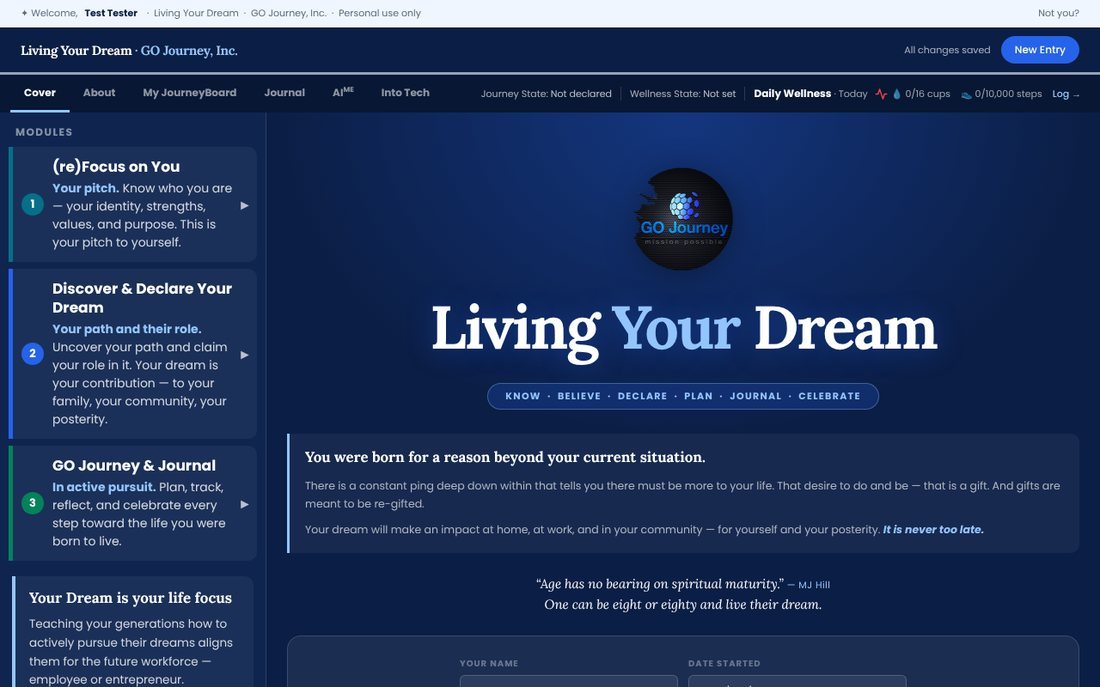
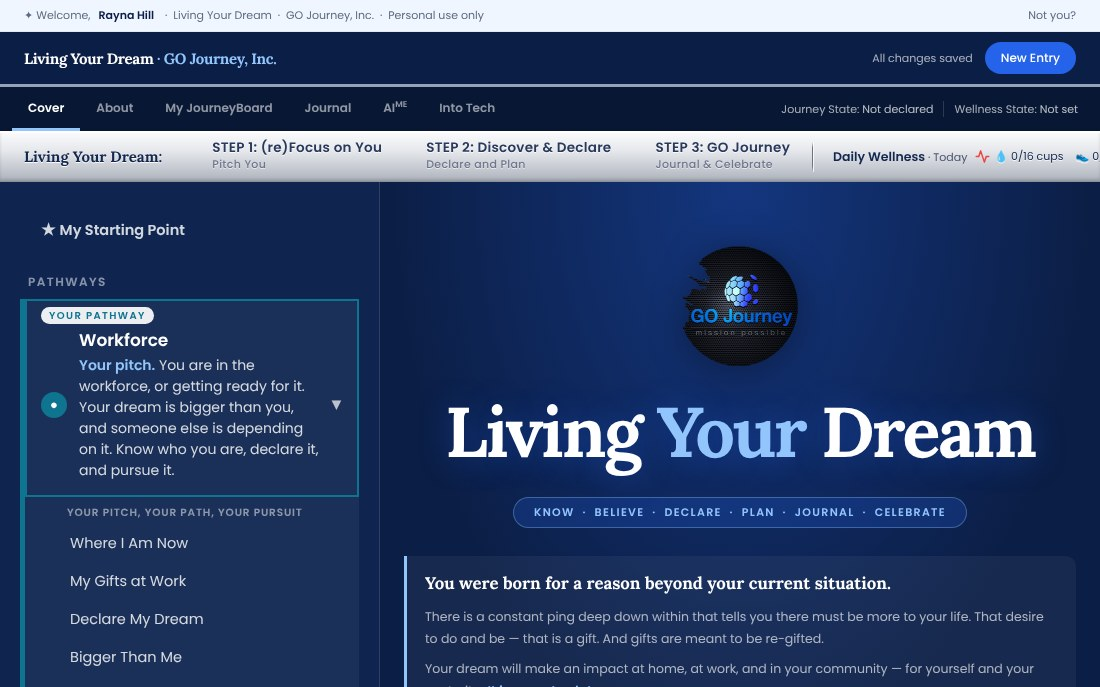
Add files via upload

diff --git a/living-your-dream.html b/living-your-dream.html
@@ -109,16 +109,17 @@
 <section class="band cream wide" id="see-the-app"><div class="in">
 <h2>See the app</h2>
 <p class="shots-lead">Six pathways, three modules, one side menu. Here is how it looks on a computer and on a phone. Tap or click any picture to enlarge it.</p>
-<figure class="shot shot-wide"><a href="/shot-cover.jpg" target="_blank" rel="noopener"><img src="/shot-cover.jpg" width="1100" height="687" loading="lazy" alt="The Living Your Dream cover with the three modules and their definitions in the side menu."></a><figcaption>The cover: Living Your Dream, with your three modules and what each one is for in the side menu.</figcaption></figure>
+<figure class="shot shot-wide"><a href="/shot-cover.jpg" target="_blank" rel="noopener"><img src="/shot-cover.jpg" width="1100" height="687" loading="lazy" alt="The Living Your Dream cover with the Workforce pathway and its pages open in the side menu."></a><figcaption>The cover: Living Your Dream, with your pathway and its pages in the side menu.</figcaption></figure>
 <div class="shots-row">
-<figure class="shot shot-phone"><a href="/shot-phone-cover.jpg" target="_blank" rel="noopener"><img src="/shot-phone-cover.jpg" width="520" height="1040" loading="lazy" alt="The cover on a phone, with the Modules button."></a><figcaption>On a phone, the cover reads top to bottom.</figcaption></figure>
-<figure class="shot shot-phone"><a href="/shot-phone-menu.jpg" target="_blank" rel="noopener"><img src="/shot-phone-menu.jpg" width="520" height="1040" loading="lazy" alt="The Modules menu open on a phone, listing (re)Focus on You, Discover and Declare Your Dream, and GO Journey and Journal."></a><figcaption>The Modules button opens the three modules.</figcaption></figure>
+<figure class="shot shot-phone"><a href="/shot-phone-cover.jpg" target="_blank" rel="noopener"><img src="/shot-phone-cover.jpg" width="520" height="1040" loading="lazy" alt="The cover on a phone, with the Pathways button."></a><figcaption>On a phone, the cover reads top to bottom.</figcaption></figure>
+<figure class="shot shot-phone"><a href="/shot-phone-menu.jpg" target="_blank" rel="noopener"><img src="/shot-phone-menu.jpg" width="520" height="1040" loading="lazy" alt="The Pathways menu open on a phone, showing the Workforce pathway and its eight pages."></a><figcaption>The Pathways button opens your pathway and its pages.</figcaption></figure>
 </div>
-<figure class="shot shot-wide"><a href="/shot-menu.jpg" target="_blank" rel="noopener"><img src="/shot-menu.jpg" width="1100" height="687" loading="lazy" alt="Module 1, (re)Focus on You, open in the side menu with its topics, next to the Get to Know and Love You page."></a><figcaption>Module 1, (re)Focus on You, opens its topics in the side menu: self-discovery, emotional intelligence, strengths and values.</figcaption></figure>
+<figure class="shot shot-wide"><a href="/shot-menu.jpg" target="_blank" rel="noopener"><img src="/shot-menu.jpg" width="1100" height="687" loading="lazy" alt="The Declare My Dream page of the Workforce pathway with a dream written in, next to the side menu."></a><figcaption>A pathway page: Declare My Dream, page 3 of 8 on the Workforce pathway.</figcaption></figure>
 <h2 style="margin-top:44px">A journey in progress</h2>
 <p class="shots-lead">These screens show a sample journal for a fictional person, so you can see what a filled-in journey looks like. Your own journal stays on your device.</p>
-<figure class="shot shot-wide"><a href="/shot-journeyboard.jpg" target="_blank" rel="noopener"><img src="/shot-journeyboard.jpg" width="1080" height="745" loading="lazy" alt="My JourneyBoard showing overall progress, activity and the three modules with their completion."></a><figcaption>My JourneyBoard: your progress across every module in one place.</figcaption></figure>
+<figure class="shot shot-wide"><a href="/shot-journeyboard.jpg" target="_blank" rel="noopener"><img src="/shot-journeyboard.jpg" width="1080" height="745" loading="lazy" alt="My JourneyBoard showing the person's name, overall progress, the Activity Pulse and the three modules with their completion."></a><figcaption>My JourneyBoard: your progress across every module in one place.</figcaption></figure>
 <figure class="shot shot-wide"><a href="/shot-declare.jpg" target="_blank" rel="noopener"><img src="/shot-declare.jpg" width="1080" height="560" loading="lazy" alt="A signed Dream Declaration with the person's name, dream statement and signature."></a><figcaption>Declare Your Dream: write it, believe it, sign it and date it.</figcaption></figure>
+<figure class="shot shot-wide"><a href="/shot-verification.jpg" target="_blank" rel="noopener"><img src="/shot-verification.jpg" width="1100" height="687" loading="lazy" alt="Stage Evidence and Verification on the Occupational Maturity page: each stage with its status, statements, evidence and a named reference."></a><figcaption>Occupational Maturity: list evidence for each stage and name the references who agreed to verify it.</figcaption></figure>
 <figure class="shot shot-wide"><a href="/shot-framework.jpg" target="_blank" rel="noopener"><img src="/shot-framework.jpg" width="1080" height="1160" loading="lazy" alt="The Human Maturity Framework: fifteen dimensions of a whole life, each with its own progress."></a><figcaption>The Human Maturity Framework: fifteen dimensions of a whole life, tracked in one view.</figcaption></figure>
 </div></section>
 
